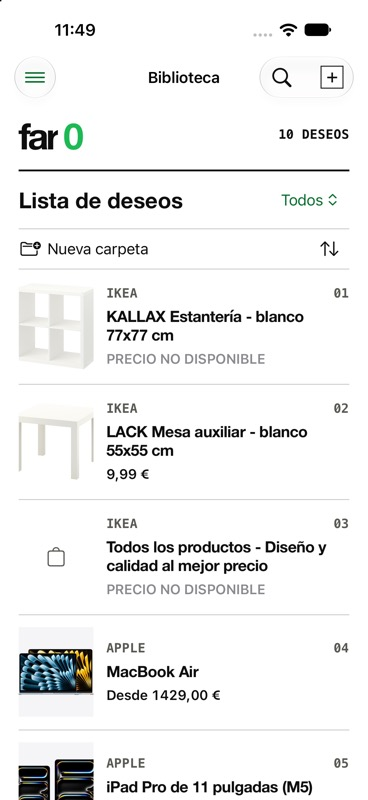
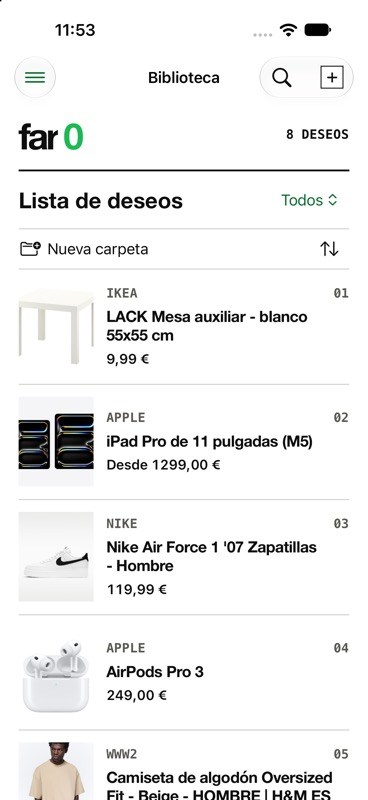
Show wishlist, books and saved websites as iPhone collection views

diff --git a/docs/GALLERY.md b/docs/GALLERY.md
@@ -2,48 +2,32 @@
 
 [Back to the overview](../README.md) · [Full product walkthrough](PRODUCT.md)
 
-These are captures of the running development app in iPhone simulators, taken on 26 October 2026. The app interface is Spanish. Public links are demo content, separate from a personal library. Screenshots are not design mockups.
+Three collection views from the running app in an iPhone simulator, captured on 26 October 2026. Every screenshot stays in the library, without opening a particular bookmark. The interface is Spanish; the documentation is English. The links are public demonstration content, separate from a personal library.
 
-## Capture and first launch
+## Wishlist: products, photos and prices
 
-<p>
-  <img src="../assets/screenshots/iphone-onboarding.jpg" alt="Onboarding explains the types of links supported by Far0" width="270">
-  <img src="../assets/screenshots/iphone-form.jpg" alt="Add-link form with URL, optional title, destination and personal note" width="270">
-</p>
+<img src="../assets/screenshots/iphone-wishlist.jpg" alt="Far0 wishlist on iPhone, with product photos and prices for an IKEA table, iPad Pro, Nike trainers and AirPods Pro" width="320">
 
-The introduction establishes what can be saved. The capture form keeps the URL central, with optional context and a destination. The same capture workflow is also available through the system share sheet; that extension is described in the walkthrough and is not pictured here.
+The first four products show both their source images and retrieved prices: an [IKEA LACK table](https://www.ikea.com/es/es/p/lack-mesa-auxiliar-blanco-30449908/), [iPad Pro](https://www.apple.com/es/shop/buy-ipad/ipad-pro), [Nike Air Force 1](https://www.nike.com/es/t/air-force-1-07-zapatillas-n8juM1H2/CT2302-100) and [AirPods Pro](https://www.apple.com/es/shop/buy-airpods/airpods-pro-3).
 
-## A local library of real links
+These are page metadata values at capture time, not live offers or price tracking. The demo collection was curated to put products with usable photos and prices together. Availability of either still depends on the source website.
 
-<img src="../assets/screenshots/iphone-library.jpg" alt="iPhone inbox populated with public Wikipedia links and retrieved metadata" width="290">
+## Books: browse the covers
 
-This demo uses public Wikipedia pages, including [Music](https://en.wikipedia.org/wiki/Music), [Internet](https://en.wikipedia.org/wiki/Internet) and [Bicycle](https://en.wikipedia.org/wiki/Bicycle). The displayed titles are the metadata returned by the source, which can differ from the page heading. The capture shows actual extraction behaviour rather than manually reconstructed previews.
+<img src="../assets/screenshots/iphone-books.jpg" alt="Far0 books collection on iPhone, showing The Hobbit, 1984 and several editions of The Little Prince with real covers" width="320">
 
-## A real article summary
+The collection includes [The Hobbit](https://books.apple.com/us/book/the-hobbit/id360639382), [1984](https://books.apple.com/us/book/1984/id1602697097) and editions of The Little Prince from Apple Books and Kobo. Titles and cover images come from the public source pages. These are saved book links; Far0 does not download the books.
 
-<p>
-  <img src="../assets/screenshots/iphone-ai-consent.jpg" alt="Separate permission screen explaining what is sent for AI summaries" width="270">
-  <img src="../assets/screenshots/iphone-summary.jpg" alt="Far0 displays the beginning of a real AI-generated summary of Google's Willow quantum chip article" width="270">
-</p>
+## Websites and articles: saved for later
 
-The example is Google's [Meet Willow, our state-of-the-art quantum chip](https://blog.google/innovation-and-ai/technology/research/google-willow-quantum-chip/). A dedicated demo simulator contained only this bookmark when AI permission was granted. One live summary generation was requested through the app; the resulting Spanish text is shown as returned, without rewriting it for the screenshot. The bookmark title was entered manually. The image shows the beginning of the summary, with more content available by scrolling.
+<img src="../assets/screenshots/iphone-articles.jpg" alt="Far0 saved-for-later collection on iPhone, showing titles, descriptions and URLs from ESA, NASA, web.dev and W3C" width="320">
 
-This demonstrates an article summary, not video summarization. An AI summary can contain mistakes and should be checked against its original source.
+This view brings together [ESA Space Science](https://www.esa.int/Science_Exploration/Space_Science), [NASA Mars](https://science.nasa.gov/mars/), [Learn Performance](https://web.dev/learn/performance) and [W3C's introduction to web accessibility](https://www.w3.org/WAI/fundamentals/accessibility-intro/). The list shows the source, title, available description and URL before opening a page.
 
-## A wishlist on iPhone
+## Demonstration conditions
 
-<img src="../assets/screenshots/iphone-wishlist.jpg" alt="iPhone wishlist with real IKEA and Apple product names, images and available price metadata" width="290">
+The collection demo uses an in-memory library with AI permission disabled. Links whose metadata did not render usefully were archived in that temporary demo library. The screenshots show the resulting app UI, rather than reconstructed cards or invented prices.
 
-The wishlist brings together product links with the images and price metadata available from their source pages. This capture includes public [IKEA KALLAX](https://www.ikea.com/es/es/p/kallax-estanteria-blanco-20275814/), [IKEA LACK](https://www.ikea.com/es/es/p/lack-mesa-auxiliar-blanco-30449908/) and [MacBook Air](https://www.apple.com/es/shop/buy-mac/macbook-air) links. Prices are captured page metadata, not current offers or price tracking. A source that does not expose a usable price is labelled accordingly. This is an in-memory demo library with AI permission disabled.
+A separate, previously authorized live demo generated one article summary from Google's [Willow quantum chip announcement](https://blog.google/innovation-and-ai/technology/research/google-willow-quantum-chip/). The current gallery keeps all screenshots at collection level. Summary processing, capture, notes, offline reading, Rediscover, recovery, access and settings are explained in [the product walkthrough](PRODUCT.md).
 
-## Subscription preview
-
-<img src="../assets/screenshots/iphone-paywall.jpg" alt="Development subscription screen with annual and monthly test-store plans and no-real-charges notice" width="290">
-
-The annual total and monthly plan are presented with renewal information. This is RevenueCat Test Store: the USD prices in the image are development values, not a published offer. Production purchases are blocked, and this screenshot does not validate real payments or trial eligibility.
-
-## Coverage and attribution
-
-The images show onboarding, the capture form, an inbox, AI consent, one real summary, an iPhone wishlist and the development subscription screen. Search, the Share Extension, notes, offline reading, Rediscover, recovery and settings are documented in [the product walkthrough](PRODUCT.md); this gallery does not claim screenshots or fresh interactive validation of every feature.
-
-Third-party content remains the property of its respective owners. No affiliation or endorsement is implied. See [NOTICE](../NOTICE.md).
+These simulator images do not certify physical-device behaviour or production purchases. Third-party content belongs to its respective owners; no affiliation or endorsement is implied. See [NOTICE](../NOTICE.md).

diff --git a/README.md b/README.md
@@ -15,17 +15,16 @@ Built by [Ignacio Palomares Martín](https://github.com/nachopalomares). This re
 ## See the app
 
 <p align="center">
-  <img src="assets/screenshots/iphone-onboarding.jpg" alt="Far0 onboarding introducing articles, books, films, videos, music and wishlists" width="250">
-  <img src="assets/screenshots/iphone-summary.jpg" alt="A real technology article with its AI-generated summary in Far0" width="250">
+  <img src="assets/screenshots/iphone-wishlist.jpg" alt="iPhone wishlist showing real products with photos and prices" width="250">
+  <img src="assets/screenshots/iphone-books.jpg" alt="iPhone books collection showing The Hobbit, 1984 and editions of The Little Prince with their covers" width="250">
+  <img src="assets/screenshots/iphone-articles.jpg" alt="iPhone saved-websites collection showing ESA, NASA, web.dev and W3C links" width="250">
 </p>
 
-Screenshots show the running app in iOS simulators. Public links are demonstration content, separate from a personal library. The summary example uses a real, explicitly authorized AI request. The interface is currently Spanish; the documentation is English.
+**Wishlist · Books · Websites & articles**
+
+All three screenshots show collection views in the running iPhone app, without opening an individual bookmark. Public links are curated demonstration content, separate from a personal library. Product prices are retrieved page metadata, not current offers or price tracking. The interface is currently Spanish; the documentation is English.
 
 [Browse the screenshots](docs/GALLERY.md) · [Walk through the app](docs/PRODUCT.md) · [Engineering decisions](docs/ENGINEERING.md)
-
-<p align="center">
-  <img src="assets/screenshots/iphone-wishlist.jpg" alt="Far0 on iPhone, showing a wishlist with real IKEA and Apple product previews" width="290">
-</p>
 
 ## What Far0 does
 
